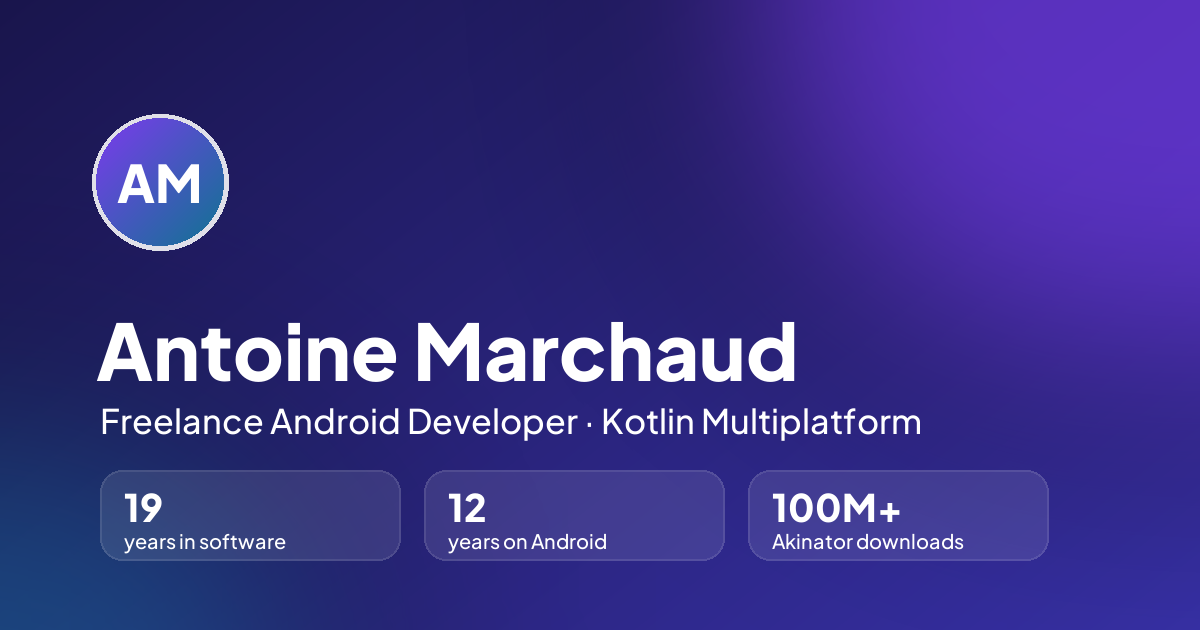
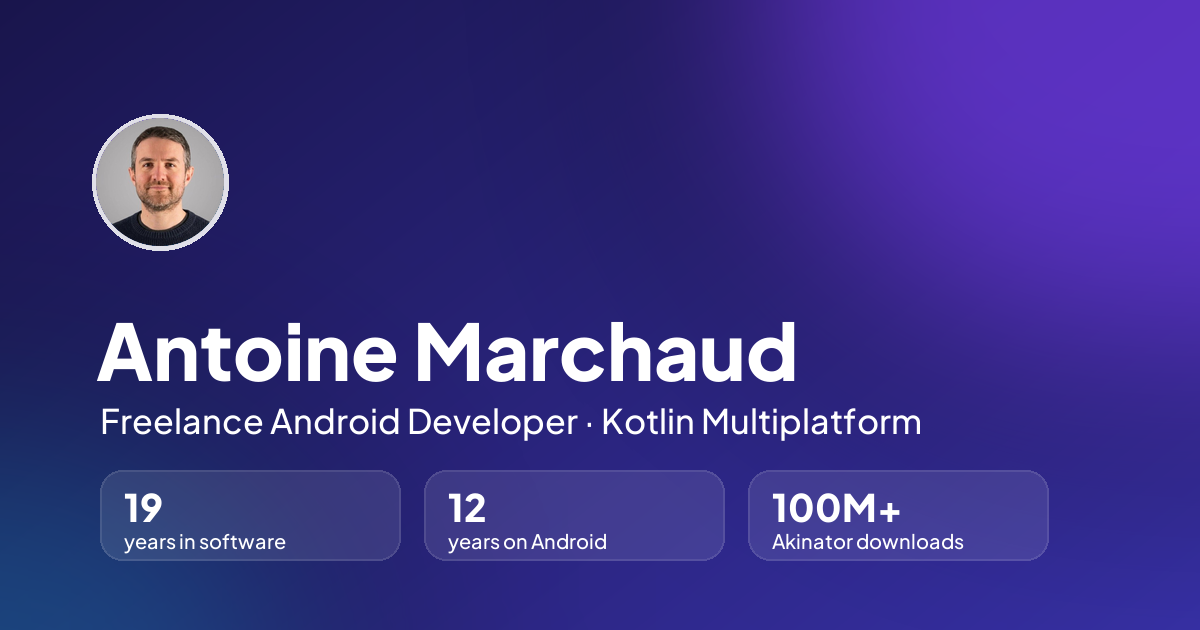
Show the profile photo, with initials as a fallback

Changed region(s): [[0.0617, 0.181, 0.185, 0.3921]]

diff --git a/shared/src/commonMain/kotlin/com/amarchaud/shared/ui/resume/ResumeScreen.kt b/shared/src/commonMain/kotlin/com/amarchaud/shared/ui/resume/ResumeScreen.kt
@@ -35,6 +35,7 @@ import androidx.compose.material3.MaterialTheme
 import androidx.compose.material3.TopAppBarDefaults
 import androidx.compose.material3.adaptive.currentWindowAdaptiveInfoV2
 import androidx.compose.runtime.Composable
+import androidx.compose.runtime.CompositionLocalProvider
 import androidx.compose.runtime.LaunchedEffect
 import androidx.compose.runtime.getValue
 import androidx.compose.runtime.mutableStateOf
@@ -55,6 +56,8 @@ import androidx.compose.ui.unit.min
 import com.amarchaud.shared.data.ResumeModel
 import com.amarchaud.shared.data.StatModel
 import com.amarchaud.shared.platform.SystemBarsAppearance
+import com.amarchaud.shared.ui.components.LocalProfilePhoto
+import com.amarchaud.shared.ui.components.rememberBundledImage
 import com.amarchaud.shared.ui.i18n.LocalStrings
 
 @Composable
@@ -91,40 +94,42 @@ internal fun ResumeScreen(
         darkTheme = darkTheme,
     )
 
-    Box(
-        modifier = modifier
-            .fillMaxSize()
-            .background(MaterialTheme.colorScheme.background),
-    ) {
-        when (layout) {
-            ResumeLayout.Compact, ResumeLayout.Medium -> CollapsingLayout(
-                resume = resume,
-                stats = stats,
-                section = section,
-                onSectionSelected = { section = it },
-                actions = actions,
-                useRail = layout == ResumeLayout.Medium,
-            )
+    CompositionLocalProvider(LocalProfilePhoto provides rememberBundledImage(resume.info.photo)) {
+        Box(
+            modifier = modifier
+                .fillMaxSize()
+                .background(MaterialTheme.colorScheme.background),
+        ) {
+            when (layout) {
+                ResumeLayout.Compact, ResumeLayout.Medium -> CollapsingLayout(
+                    resume = resume,
+                    stats = stats,
+                    section = section,
+                    onSectionSelected = { section = it },
+                    actions = actions,
+                    useRail = layout == ResumeLayout.Medium,
+                )
 
-            is ResumeLayout.TwoPane -> TwoPaneLayout(
-                resume = resume,
-                stats = stats,
-                section = section,
-                onSectionSelected = { section = it },
-                actions = actions,
-                paneWidth = layout.paneWidth,
-                hingeWidth = layout.hingeWidth,
-            )
+                is ResumeLayout.TwoPane -> TwoPaneLayout(
+                    resume = resume,
+                    stats = stats,
+                    section = section,
+                    onSectionSelected = { section = it },
+                    actions = actions,
+                    paneWidth = layout.paneWidth,
+                    hingeWidth = layout.hingeWidth,
+                )
 
-            is ResumeLayout.Tabletop -> TabletopLayout(
-                resume = resume,
-                stats = stats,
-                section = section,
-                onSectionSelected = { section = it },
-                actions = actions,
-                topHeight = layout.topHeight,
-                hingeHeight = layout.hingeHeight,
-            )
+                is ResumeLayout.Tabletop -> TabletopLayout(
+                    resume = resume,
+                    stats = stats,
+                    section = section,
+                    onSectionSelected = { section = it },
+                    actions = actions,
+                    topHeight = layout.topHeight,
+                    hingeHeight = layout.hingeHeight,
+                )
+            }
         }
     }
 }

diff --git a/shared/src/commonMain/kotlin/com/amarchaud/shared/ui/resume/ExperienceSection.kt b/shared/src/commonMain/kotlin/com/amarchaud/shared/ui/resume/ExperienceSection.kt
@@ -34,7 +34,6 @@ import androidx.compose.material3.Text
 import androidx.compose.runtime.Composable
 import androidx.compose.runtime.getValue
 import androidx.compose.runtime.mutableStateOf
-import androidx.compose.runtime.produceState
 import androidx.compose.runtime.remember
 import androidx.compose.runtime.saveable.rememberSaveable
 import androidx.compose.runtime.setValue
@@ -62,7 +61,7 @@ import com.amarchaud.shared.data.formattedPeriod
 import com.amarchaud.shared.data.initialsOf
 import com.amarchaud.shared.data.isCurrent
 import com.amarchaud.shared.data.splitDuration
-import com.amarchaud.shared.resources.Res
+import com.amarchaud.shared.ui.components.BundledImage
 import com.amarchaud.shared.ui.components.CountPill
 import com.amarchaud.shared.ui.components.CurrentBadge
 import com.amarchaud.shared.ui.components.MetaItem
@@ -73,6 +72,7 @@ import com.amarchaud.shared.ui.components.SectionHeader
 import com.amarchaud.shared.ui.components.SectionList
 import com.amarchaud.shared.ui.components.TechChip
 import com.amarchaud.shared.ui.components.openSafely
+import com.amarchaud.shared.ui.components.rememberBundledImage
 import com.amarchaud.shared.ui.components.rememberRevealState
 import com.amarchaud.shared.ui.components.staggerDelay
 import com.amarchaud.shared.ui.i18n.LocalStrings
@@ -81,7 +81,6 @@ import com.amarchaud.shared.ui.preview.PreviewData
 import com.amarchaud.shared.ui.theme.ResumeAppTheme
 import com.amarchaud.shared.ui.theme.ResumeTheme
 import kotlinx.datetime.YearMonth
-import org.jetbrains.compose.resources.decodeToImageBitmap
 
 private const val PLAY_STORE_URL = "https://play.google.com/store/apps/details?id="
 
@@ -286,17 +285,11 @@ private fun ExperienceCard(
 /** Company logo when the resume provides one, its initials otherwise. */
 @Composable
 private fun CompanyLogo(experience: ExperienceModel, index: Int) {
-    when (val logo = rememberCompanyLogo(experience.logo)) {
-        is LogoState.Loaded -> LogoTile(image = logo.image)
-        LogoState.Loading -> LogoTile(image = null)
-        LogoState.Missing -> CompanyMonogram(experience = experience, index = index)
+    when (val logo = rememberBundledImage(experience.logo)) {
+        is BundledImage.Loaded -> LogoTile(image = logo.image)
+        BundledImage.Loading -> LogoTile(image = null)
+        BundledImage.Missing -> CompanyMonogram(experience = experience, index = index)
     }
-}
-
-private sealed interface LogoState {
-    data object Loading : LogoState
-    data class Loaded(val image: ImageBitmap) : LogoState
-    data object Missing : LogoState
 }
 
 private val LogoTileHeight = 44.dp
@@ -331,23 +324,6 @@ private fun LogoTile(image: ImageBitmap?) {
             Image(bitmap = image, contentDescription = null, contentScale = ContentScale.Fit)
         }
     }
-}
-
-/** Decodes a logo bundled in the Compose resources (`composeResources/files`). */
-@Composable
-private fun rememberCompanyLogo(path: String?): LogoState {
-    val state by produceState<LogoState>(
-        initialValue = if (path == null) LogoState.Missing else LogoState.Loading,
-        path,
-    ) {
-        if (path != null) {
-            value = runCatching { Res.readBytes("files/$path").decodeToImageBitmap() }
-                .getOrNull()
-                ?.let { LogoState.Loaded(it) }
-                ?: LogoState.Missing
-        }
-    }
-    return state
 }
 
 @Composable

diff --git a/shared/src/commonMain/kotlin/com/amarchaud/shared/ui/resume/ProfileHero.kt b/shared/src/commonMain/kotlin/com/amarchaud/shared/ui/resume/ProfileHero.kt
@@ -1,5 +1,6 @@
 package com.amarchaud.shared.ui.resume
 
+import androidx.compose.foundation.Image
 import androidx.compose.foundation.background
 import androidx.compose.foundation.border
 import androidx.compose.foundation.layout.Arrangement
@@ -48,6 +49,7 @@ import androidx.compose.ui.Modifier
 import androidx.compose.ui.draw.clip
 import androidx.compose.ui.graphics.Brush
 import androidx.compose.ui.graphics.graphicsLayer
+import androidx.compose.ui.layout.ContentScale
 import androidx.compose.ui.layout.layout
 import androidx.compose.ui.layout.onSizeChanged
 import androidx.compose.ui.platform.LocalDensity
@@ -63,6 +65,8 @@ import com.amarchaud.shared.data.InfoModel
 import com.amarchaud.shared.data.Language
 import com.amarchaud.shared.data.StatModel
 import com.amarchaud.shared.data.initialsOf
+import com.amarchaud.shared.ui.components.BundledImage
+import com.amarchaud.shared.ui.components.LocalProfilePhoto
 import com.amarchaud.shared.ui.components.Monogram
 import com.amarchaud.shared.ui.components.heroBackground
 import com.amarchaud.shared.ui.i18n.LanguageFlag
@@ -150,14 +154,25 @@ fun ProfileAvatar(name: String, size: Dp, modifier: Modifier = Modifier) {
             )
             .padding(4.dp),
     ) {
-        Monogram(
-            text = initialsOf(name),
-            container = Brush.linearGradient(listOf(colors.heroGlow, colors.heroGlowSecondary)),
-            contentColor = colors.onHero,
-            size = size - 8.dp,
-            shape = CircleShape,
-            textStyle = MaterialTheme.typography.titleLarge,
-        )
+        when (val photo = LocalProfilePhoto.current) {
+            is BundledImage.Loaded -> Image(
+                bitmap = photo.image,
+                contentDescription = null,
+                modifier = Modifier
+                    .size(size - 8.dp)
+                    .clip(CircleShape),
+                contentScale = ContentScale.Crop,
+            )
+            // Initials when there is no photo, or when it cannot be read.
+            else -> Monogram(
+                text = if (photo == BundledImage.Loading) "" else initialsOf(name),
+                container = Brush.linearGradient(listOf(colors.heroGlow, colors.heroGlowSecondary)),
+                contentColor = colors.onHero,
+                size = size - 8.dp,
+                shape = CircleShape,
+                textStyle = MaterialTheme.typography.titleLarge,
+            )
+        }
     }
 }
 

diff --git a/shared/src/commonMain/kotlin/com/amarchaud/shared/ui/components/BundledImage.kt b/shared/src/commonMain/kotlin/com/amarchaud/shared/ui/components/BundledImage.kt
@@ -1,0 +1,36 @@
+package com.amarchaud.shared.ui.components
+
+import androidx.compose.runtime.Composable
+import androidx.compose.runtime.compositionLocalOf
+import androidx.compose.runtime.getValue
+import androidx.compose.runtime.produceState
+import androidx.compose.ui.graphics.ImageBitmap
+import com.amarchaud.shared.resources.Res
+import org.jetbrains.compose.resources.decodeToImageBitmap
+
+/** State of an image bundled with the app: company logos, profile photo. */
+sealed interface BundledImage {
+    data object Loading : BundledImage
+    data class Loaded(val image: ImageBitmap) : BundledImage
+    data object Missing : BundledImage
+}
+
+/** Decodes an image of `composeResources/files`: [BundledImage.Missing] when there is none or it cannot be read. */
+@Composable
+fun rememberBundledImage(path: String?): BundledImage {
+    val state by produceState<BundledImage>(
+        initialValue = if (path == null) BundledImage.Missing else BundledImage.Loading,
+        path,
+    ) {
+        if (path != null) {
+            value = runCatching { Res.readBytes("files/$path").decodeToImageBitmap() }
+                .getOrNull()
+                ?.let { BundledImage.Loaded(it) }
+                ?: BundledImage.Missing
+        }
+    }
+    return state
+}
+
+/** Profile photo of the resume, loaded once and shared by every avatar of the screen. */
+val LocalProfilePhoto = compositionLocalOf<BundledImage> { BundledImage.Missing }

diff --git a/shared/src/jvmTest/kotlin/com/amarchaud/shared/data/BundledResumeTest.kt b/shared/src/jvmTest/kotlin/com/amarchaud/shared/data/BundledResumeTest.kt
@@ -44,6 +44,9 @@ class BundledResumeTest {
             if (experience.end != null) assertNotNull(experience.endMonth, "${experience.company} has an invalid end")
         }
         assertEquals(1, resume.experiences.count { it.isCurrent }, "Exactly one position should be ongoing")
+        resume.info.photo?.let { photo ->
+            assertTrue(SystemFileSystem.exists(Path("src/commonMain/composeResources/files/$photo")), "Missing photo: $photo")
+        }
         resume.experiences.mapNotNull { it.logo }.forEach { logo ->
             assertTrue(SystemFileSystem.exists(Path("src/commonMain/composeResources/files/$logo")), "Missing logo: $logo")
         }

diff --git a/composeApp/src/webMain/resources/index.html b/composeApp/src/webMain/resources/index.html
@@ -34,7 +34,7 @@
 <body>
 <!-- Shown while the WebAssembly app loads; Compose then takes over the whole page. -->
 <div id="loading" role="status" aria-live="polite">
-    <div class="avatar">AM</div>
+    <div class="avatar">AM<img src="composeResources/com.amarchaud.shared.resources/files/photo.jpg" alt="" onerror="this.remove()"></div>
     <h1>Antoine Marchaud</h1>
     <p>Freelance Android Developer</p>
     <div class="spinner" aria-label="Loading"></div>

diff --git a/composeApp/src/webMain/resources/styles.css b/composeApp/src/webMain/resources/styles.css
@@ -42,6 +42,17 @@ html, body {
     background: linear-gradient(135deg, #7C3AED, #0E7490);
     border: 3px solid rgba(255, 255, 255, 0.85);
     margin-bottom: 14px;
+    position: relative;
+    overflow: hidden;
+}
+
+/* The photo covers the initials, which stay visible if it cannot be loaded. */
+#loading .avatar img {
+    position: absolute;
+    inset: 0;
+    width: 100%;
+    height: 100%;
+    object-fit: cover;
 }
 
 #loading h1 {

diff --git a/shared/src/commonMain/kotlin/com/amarchaud/shared/data/ResumeModels.kt b/shared/src/commonMain/kotlin/com/amarchaud/shared/data/ResumeModels.kt
@@ -24,6 +24,8 @@ data class InfoModel(
     val name: String,
     val job: String,
     val location: String? = null,
+    /** Profile photo, relative to `composeResources/files`: `photo.jpg`. Initials are shown without it. */
+    val photo: String? = null,
     /** Key figures shown in the header. When empty, figures are computed from the resume. */
     val stats: List<StatModel> = emptyList(),
 )
